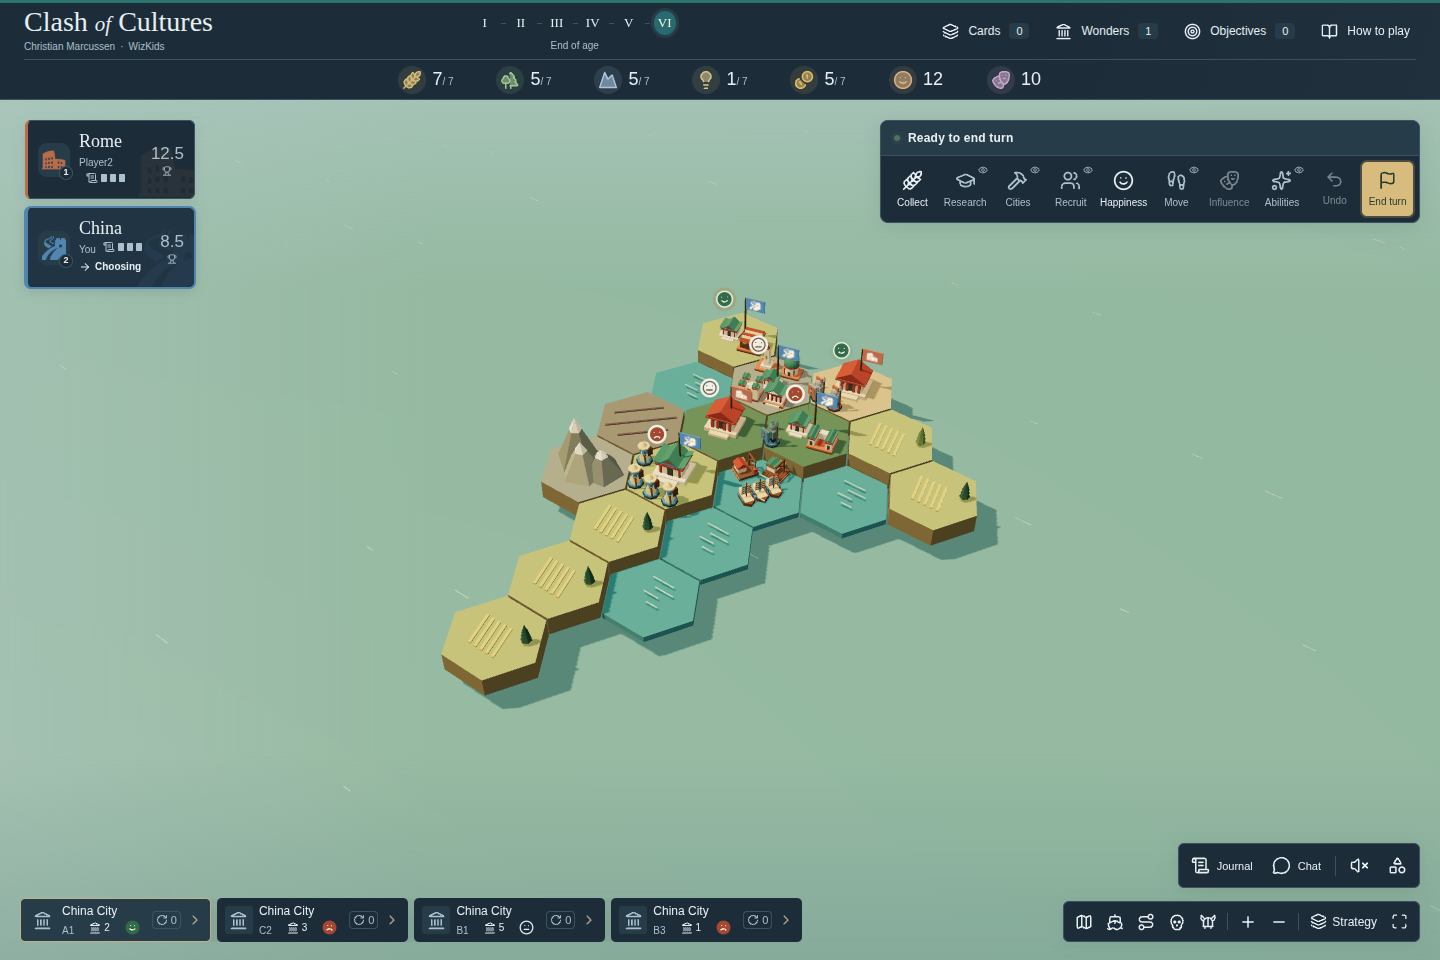
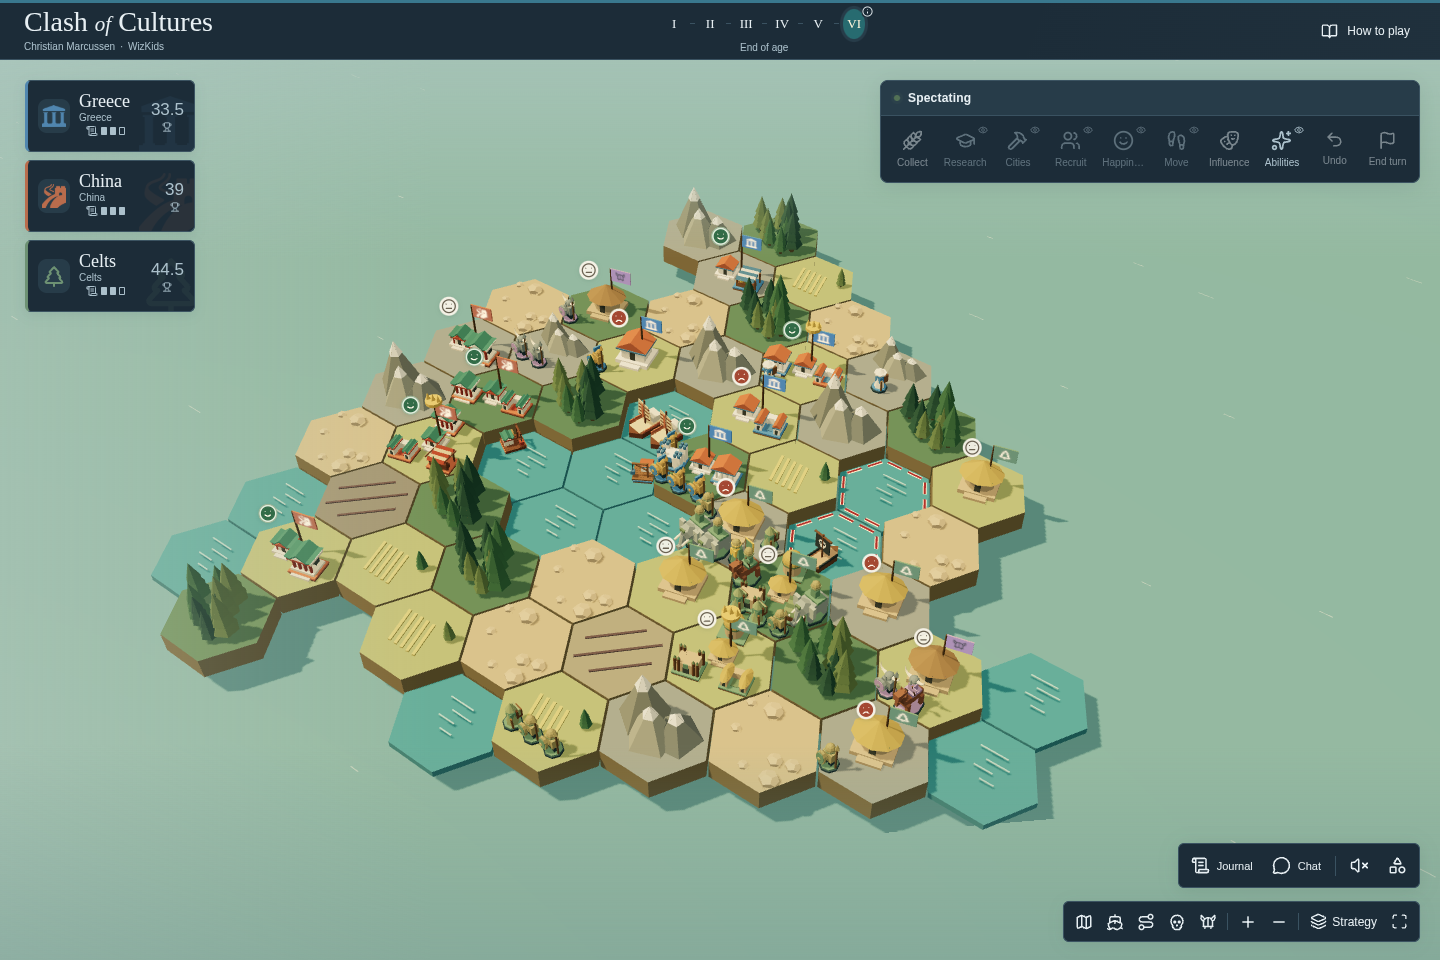
Publish real completed-game gallery with isolated verified asset release

diff --git a/web-client/release/screenshots/README.md b/web-client/release/screenshots/README.md
@@ -1,0 +1,42 @@
+# Release gallery — real completed game
+
+Local preview assets, **not published** by the capture script.
+
+## Provenance
+
+- Public source: https://boardgamers.space/game/Open-clash-a52a21ee
+- Completed three-player game: Greece, China, Celts; age VI, finished.
+- Actual final 60-tile map, with 5 / 4 / 7 player cities (plus barbarians).
+- Geometry, terrain, cities, buildings, units, public advances, scores and game outcome are unchanged. No tutorial position, invented city cluster, or reshaped map is used.
+- Exact capture date, viewer version and SHA-256 of map + city/unit positions are in `checks.json`. The script pins that hash and refuses to silently capture a changed board.
+
+## Reproduce
+
+From the repository root, with the existing built viewer and engine bridge available:
+
+```sh
+node web-client/scripts/release-gallery.mjs
+```
+
+Uses an **anonymous GET** of the completed game's public endpoint. No credentials are read, and there are no live writes, moves or history changes. The viewer runs offline against intercepted local `dist` assets; all other browser requests are blocked. Capture uses the existing build (viewer 0.1.211), not a newly bumped release.
+
+The public response is not a safe fixture: completed-game responses can contain hands. The script immediately passes it through `engine.stripSecret(data, undefined)` (the engine's spectator index), then removes player names, messages, log and replay history from the in-memory rendering copy. It does not save game JSON, shuffled decks, seeds, hands, usernames or free-text history. Names displayed in the images are civilization names. Only screenshots and minimal checks/provenance are retained.
+
+Board/strategy/mobile views remain spectators. For the research screenshot only, the local host selects Greece's viewing seat because the Research button is disabled for an unselected spectator. **The same spectator-filtered payload is retained**; no player-specific state is fetched, and no hand is revealed. Returning to the board restores the spectator seat. This is an inspection of real public advances, not a made-up research choice or game move.
+
+The desktop camera uses the viewer's actual map framing. Mobile uses an actual right-drag pan to move the complete strategy map below the three stacked player cards; no geometry or CSS is altered. Captures wait for player cards and loading completion. Checks require no page errors, no emitted moves, no mobile horizontal overflow, and record host protocol diagnostics.
+
+## Assets and review
+
+- `board-{light,dark}.png`: 1440 × 960, full actual 3D map.
+- `research-{light,dark}.png`: 1440 × 960, Greece's real public research.
+- `strategy-{light,dark}.png`: 1440 × 960, full actual strategy map.
+- `mobile-{light,dark}.png`: 390 × 844, full strategy map below player cards.
+
+All eight images were visually reviewed in both themes. These PNGs are tracked repository assets, not ignored build output.
+
+The existing publication gallery uses **board / research / mobile** pairs; desktop strategy images are supplemental previews. **Do not run `publish-release-content.mjs` to publish just these images:** it also replaces 16 rules pages and metadata. The approved release uses `node web-client/scripts/publish-gallery.mjs --publish` after the matching `main` commit passes CI. Omit `--publish` for a read-only plan; `--check` validates the eight frozen captures without credentials or network. Run `node --test web-client/scripts/publish-gallery.test.mjs` for preservation tests.
+
+The gallery-only publisher uploads six content-derived asset keys from `manifest.json`, verifies each anonymous hosted download, then switches the gallery in one metadata operation. Existing captions, order, unrelated entries and old assets are preserved. It verifies all 16 published rules pages against `release/rules.json` without writing them, and asserts engine, viewer, options and other metadata are unchanged. Evidence defaults to `/tmp/gallery-real-games-release` and contains only public release metadata and image hashes/downloads.
+
+**Platform format limitation:** BGS always converts uploaded images to WebP (screenshot pipeline: rotate, fit inside 2400 × 2400 without enlargement, WebP quality 88). Hosting byte-identical original PNGs through the supported asset API is not possible. `manifest.json` therefore pins both the approved original PNG hashes and the expected converted WebP hashes, generated using the recorded Sharp/libvips versions and that exact pipeline. The publisher compares downloaded WebP bytes against those conversion hashes before changing the gallery. Original PNGs remain frozen in Git; no viewer/engine publication or version bump is needed.
